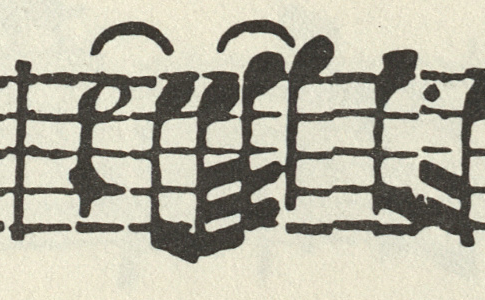
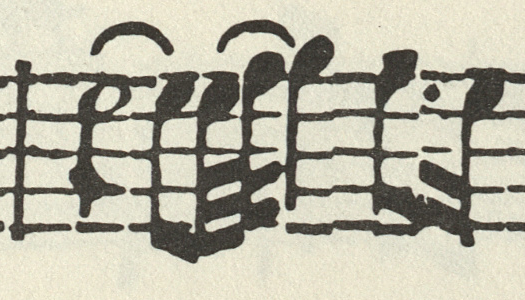
Correct three source readings and re-crop the Op. II/6 excerpt
From the 2026-10-21 facsimile review, each checked against DdT 1903:
- Op. I/6, m. 126: the dynamics on staves 3 and 5 read Forte (p. 62);
  they were encoded as Piano.
- App. III, m. 150: withdrew the conjectural dot on the keyboard G2 and
  its annotation; DdT prints the dot (p. 182). The editorial declaration
  now names only m. 137, whose undotted D3 was rechecked.
- Op. I/1: the A3 tie note at mm. 79-80 says system break, not page
  break.
- The Op. II/6 m. 3 excerpt is re-cropped to 525 x 300 so the last E5
  head is no longer cut; manifest and README updated.

Each MEI carries a change entry. Reports refreshed: 16/16 passed, 274
findings, only line numbers moved. The edition now has 21 editorial
annotations.

Changed region(s): [[0.0, 0.06, 1.0, 0.9], [0.1546, 0.06, 0.3711, 0.21]]

diff --git a/CHANGELOG.md b/CHANGELOG.md
@@ -11,6 +11,10 @@ All notable changes to this edition are recorded here. Version numbers follow th
 
 ### Fixed
 
+- Op. I/6, m. 126: the dynamics on staves 3 and 5 now read Forte, as DdT 1903 prints them (p. 62); they were encoded as Piano. The Piano in m. 125 is unchanged.
+- App. III, m. 150: withdrew the conjectural dot on the keyboard lower-staff G2 and its annotation. DdT 1903 prints the dot (p. 182), so the encoded dotted half is the printed reading; the emendation rested on a misreading. The edition now has 21 editorial annotations: 3 source-supported emendations, 7 conjectural emendations and 11 encoding notes.
+- Op. I/1, mm. 79–80: the encoding note on the A3 tie now says it crosses a system break, not a page break.
+- The Op. II/6 m. 3 excerpt is re-cropped to 525 × 300 pixels: the old right edge cut through the head of the measure's last note, the E5 sixteenth.
 - Web viewer: in the 17 measures with a blank figured-bass figure (`<f/>`, in Op. I/1, Op. II/6, Op. II/7 and App. II), the box drawn by "Measure boxes" and "Mark all notes" stretched to the top-left corner of the page (visibly in 16 of them), because Chrome counts the empty figure text as a point at the page origin. Empty texts are now left out before the boxes are measured.
 
 ## [0.9.0] — 2026-10-21

diff --git a/supplemental_material/README.md b/supplemental_material/README.md
@@ -101,7 +101,7 @@ printed p. 139, instead gives a sixteenth. The
 explains the retained eighth-note reading and the rhythmic rationale.
 
 **Image preparation:** a direct crop at the scan's original pixel scale,
-485 × 300 pixels, saved as PNG from the supplied full-resolution JPEG access
+525 × 300 pixels, saved as PNG from the supplied full-resolution JPEG access
 image. No resizing, retouching or reconstructed notation is included. The
 TIFF master was not newly read for this crop. The modern introduction and
 unrelated measures are excluded; the part, page and system context are
